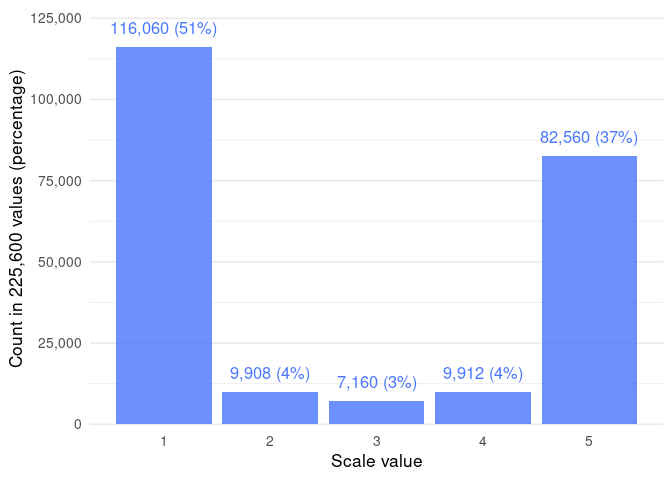
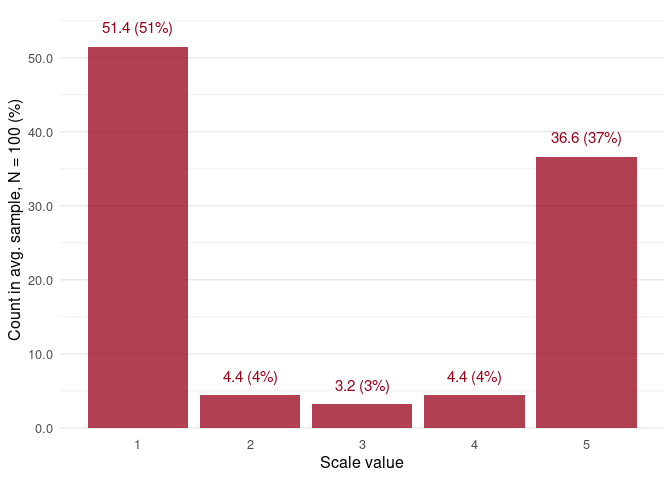
Update README.Rmd

Changed region(s): [[0.0, 0.0312, 0.9688, 1.0], [0.0312, 0.0312, 0.125, 0.0625], [0.0312, 0.0938, 0.0625, 0.1562]]

diff --git a/README.md b/README.md
@@ -1,15 +1,20 @@
 
 <!-- README.md is generated from README.Rmd. Please edit that file -->
 
-# CLOSURE: Complete Listing of Original Samples of Underlying Raw Evidence
+# unsum: reconstruct raw data from summary statistics
 
 <!-- badges: start -->
+
 <!-- badges: end -->
 
-The unsum package enables efficient reconstruction of all possible
-datasets that may underlie a given set of summary statistics: mean, SD,
-sample size, and scale bounds. This can be useful in error detection to
-identify impossible or implausible reported numbers.
+The goal of unsum is to **un**do **sum**marization: reconstruct all
+possible samples that may underlie a given set of summary statistics. It
+is currently implemented for sets of mean, SD, sample size, and scale
+bounds. This can be useful in error detection to identify impossible or
+implausible reported numbers.
+
+The package features *CLOSURE: Complete Listing of Original Samples of
+Underlying Raw Evidence*, a fast algorithm implemented in Rust.
 
 CLOSURE is exhaustive, which makes it computationally intensive. If your
 code takes too long to run, consider using
@@ -47,21 +52,27 @@ data <- closure_combine(
 )
 
 data
-#> $metadata
-#> # A tibble: 1 × 8
-#>   mean  sd        n scale_min scale_max combos_initial combos_all values_all
-#>   <chr> <chr> <dbl>     <dbl>     <dbl>          <int>      <int>      <int>
-#> 1 2.7   1.9     100         1         5             15       2256     225600
+#> $inputs
+#> # A tibble: 1 × 5
+#>   mean  sd        n scale_min scale_max
+#>   <chr> <chr> <dbl>     <dbl>     <dbl>
+#> 1 2.7   1.9     100         1         5
+#> 
+#> $metrics
+#> # A tibble: 1 × 5
+#>   combos_initial combos_all values_all horns horns_uniform
+#>            <int>      <int>      <int> <dbl>         <dbl>
+#> 1             15       2256     225600 0.880           0.5
 #> 
 #> $frequency
-#> # A tibble: 5 × 3
-#>   value f_absolute f_relative
-#>   <int>      <int>      <dbl>
-#> 1     1     116060     0.514 
-#> 2     2       9908     0.0439
-#> 3     3       7160     0.0317
-#> 4     4       9912     0.0439
-#> 5     5      82560     0.366 
+#> # A tibble: 5 × 4
+#>   value f_average f_absolute f_relative
+#>   <int>     <dbl>      <int>      <dbl>
+#> 1     1     51.4      116060     0.514 
+#> 2     2      4.39       9908     0.0439
+#> 3     3      3.17       7160     0.0317
+#> 4     4      4.39       9912     0.0439
+#> 5     5     36.6       82560     0.366 
 #> 
 #> $results
 #> # A tibble: 2,256 × 2
